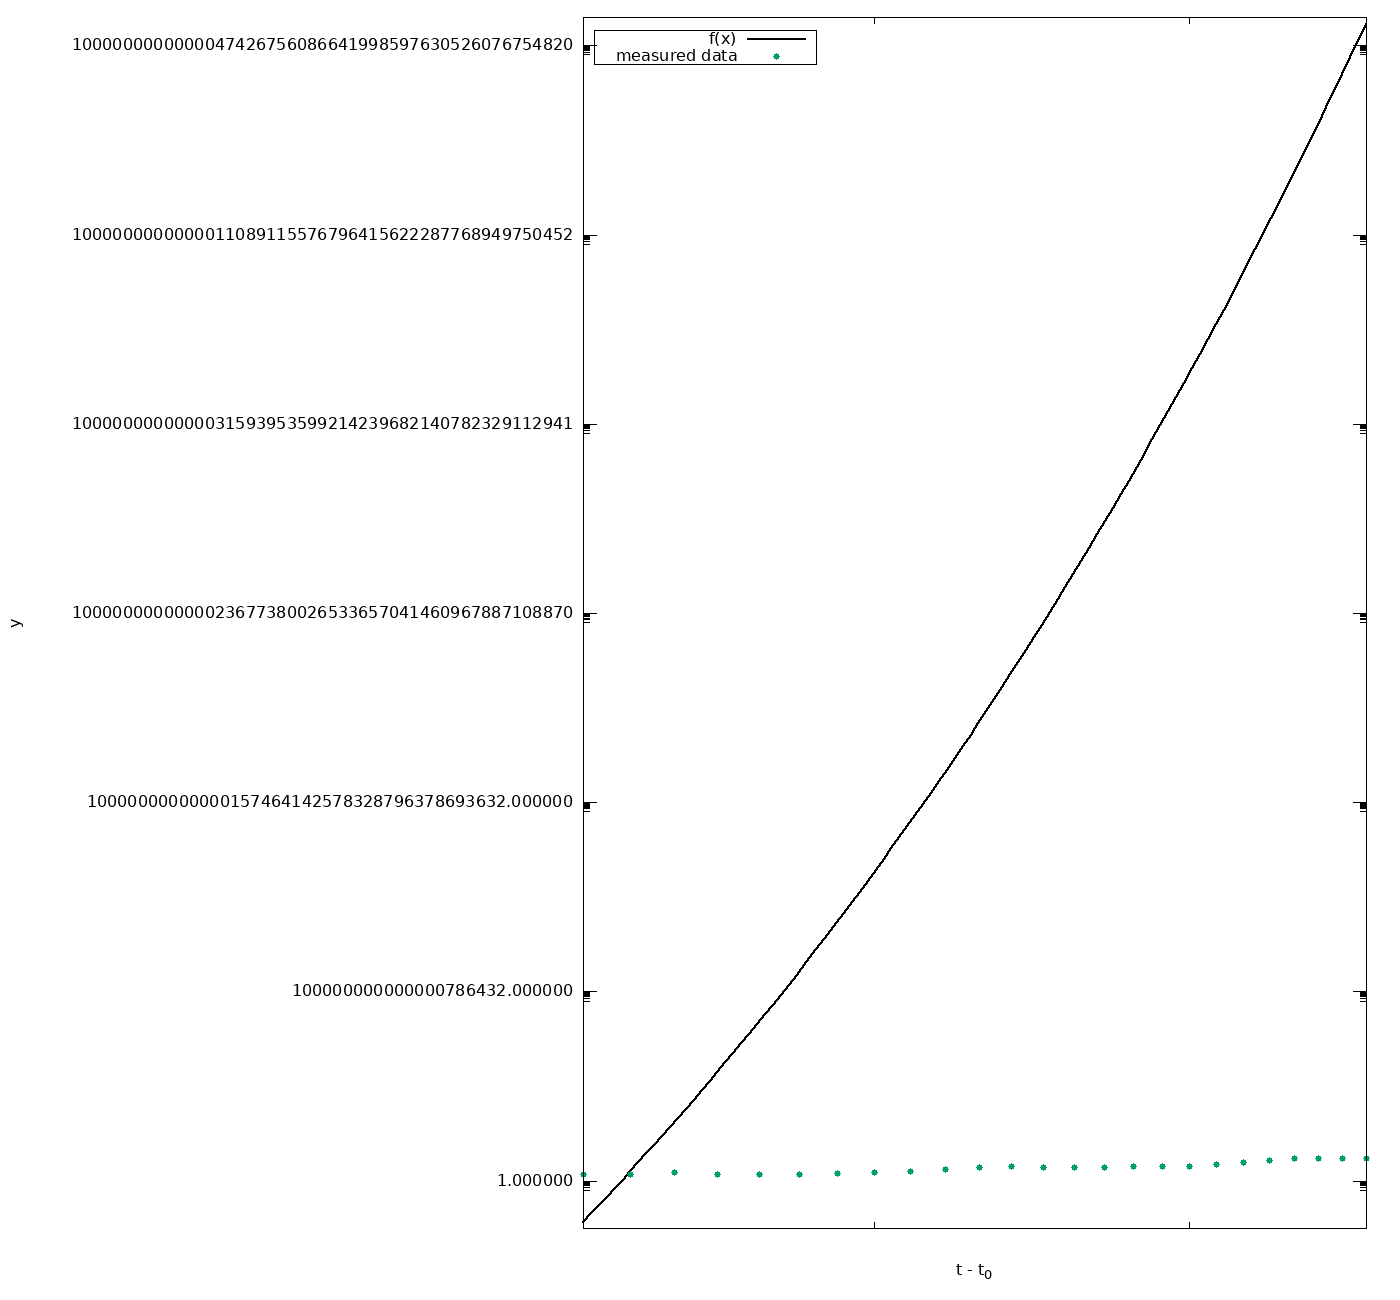
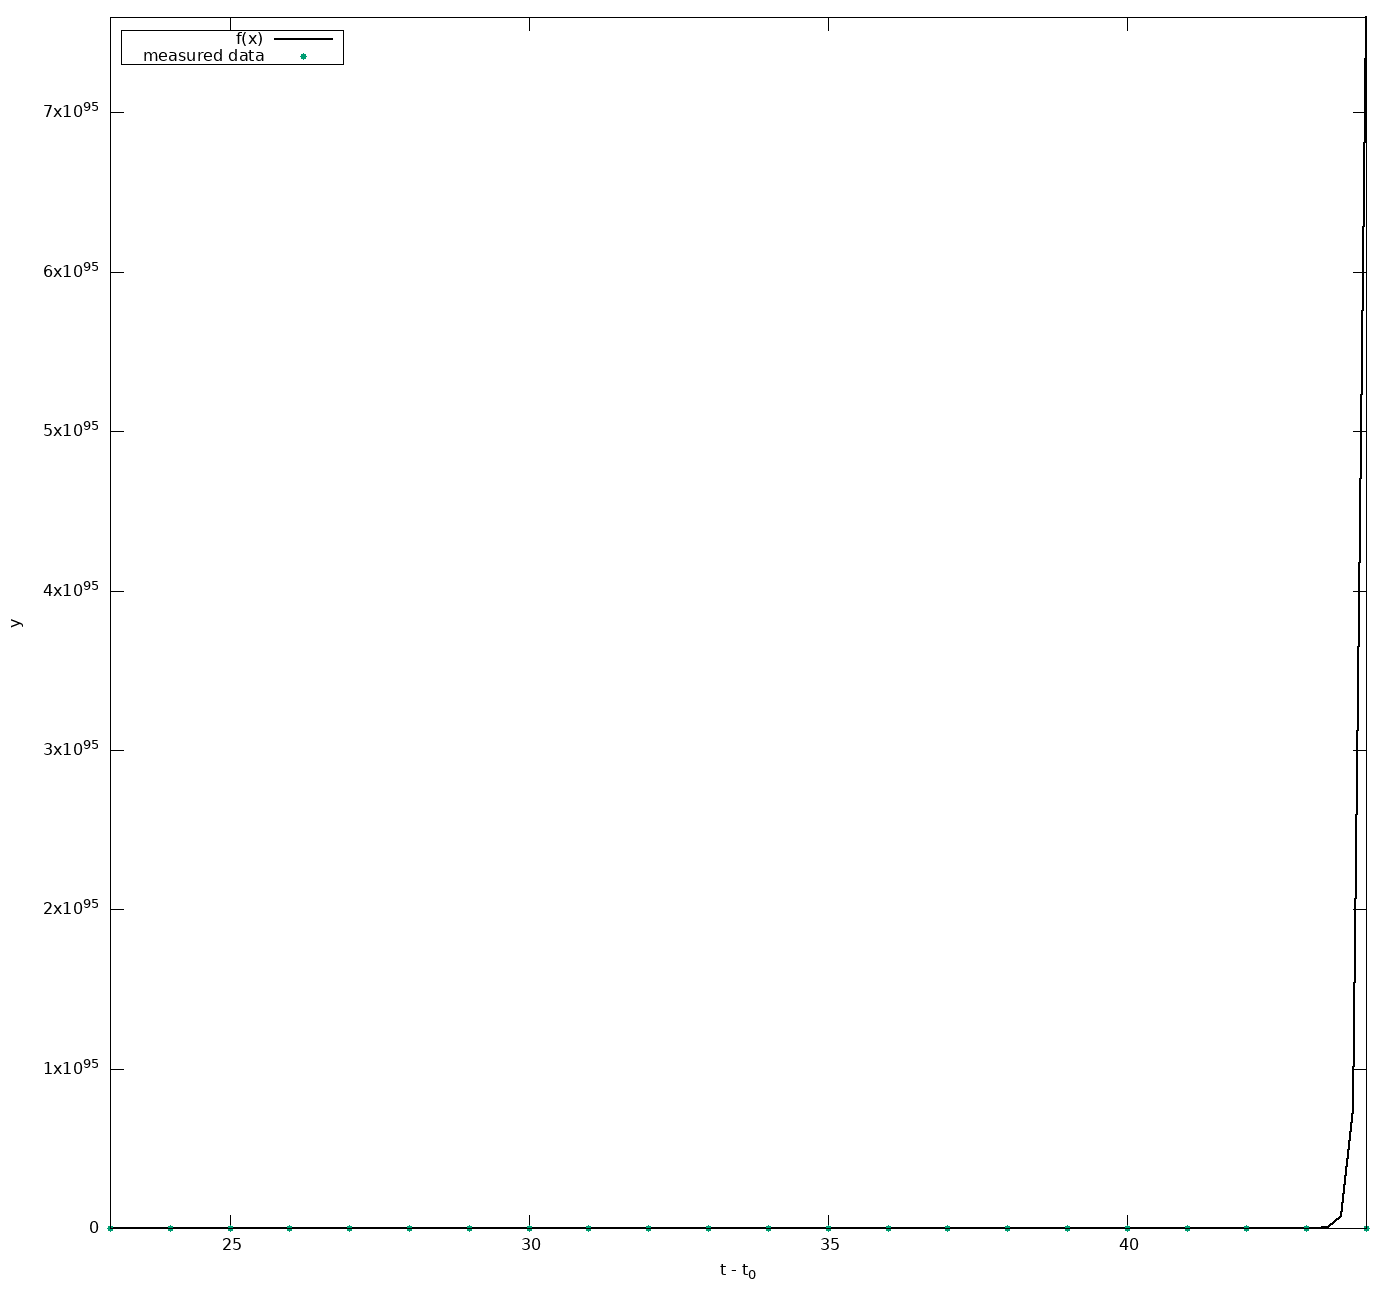
started task 3

diff --git a/modsim_ub4/integration.c b/modsim_ub4/integration.c
@@ -10,9 +10,10 @@
  * @return f(x)
  */
 
-double f1(double x) {
+double f1(double x)
+{
+  return sic(x);
 }
-
 
 /**
  * @brief Integration von f mit Untersummen.
@@ -23,7 +24,18 @@ double f1(double x) {
  * @param f zu integrierende Funktion
  */
 
-double int_unter(double a, double b, long n, double (*f)(double)) {
+double int_unter(double a, double b, long n, double (*f)(double))
+{
+  double result = 0.0;
+
+  double step = n / (b - a);
+
+  for (int i = 0; i < n - 1; i++)
+  {
+    result = result + f(a + step * i);
+  }
+
+  return result * ((b - a) / n);
 }
 
 /**
@@ -35,7 +47,18 @@ double int_unter(double a, double b, long n, double (*f)(double)) {
  * @param f zu integrierende Funktion
  */
 
-double int_mitte(double a, double b, long n, double (*f)(double)) {
+double int_mitte(double a, double b, long n, double (*f)(double))
+{
+  double result = 0.0;
+  double h = (b - a) / n;
+
+  double step = n / (b - a);
+
+  for (int i = 0; i < n - 1; i++)
+  {
+    result = result + f(0.5 * ((a + step * (i + 1)), a + step * i));
+  }
+  return result * h;
 }
 
 /**
@@ -47,7 +70,18 @@ double int_mitte(double a, double b, long n, double (*f)(double)) {
  * @param f zu integrierende Funktion
  */
 
-double int_ober(double a, double b, long n, double (*f)(double)) {
+double int_ober(double a, double b, long n, double (*f)(double))
+{
+  double result = 0.0;
+  double h = (b - a) / n;
+
+  double step = n / (b - a);
+
+  for (int i = 0; i < n - 1; i++)
+  {
+    result = result + f(a + step * (i + 1));
+  }
+  return result * h;
 }
 
 /**
@@ -59,7 +93,16 @@ double int_ober(double a, double b, long n, double (*f)(double)) {
  * @param f zu integrierende Funktion
  */
 
-double int_trapez(double a, double b, long n, double (*f)(double)) {
+double int_trapez(double a, double b, long n, double (*f)(double))
+{
+  double h = (b - a) / n;
+  double result = 0.0;
+  double step = n / (b - a);
+  for (int i = 0; i < n - 1; i++)
+  {
+    result = result + (0.5 * (f(a + step * i) + f(a + step * (i + 1))) * h);
+  }
+  return result;
 }
 
 /**
@@ -71,8 +114,9 @@ double int_trapez(double a, double b, long n, double (*f)(double)) {
  * @param f zu integrierende Funktion
  */
 
-double int_simpson(double a, double b, long n, double (*f)(double)) {
-
+double int_simpson(double a, double b, long n, double (*f)(double))
+{
+  
 }
 
 /**
@@ -84,7 +128,8 @@ double int_simpson(double a, double b, long n, double (*f)(double)) {
  * @param f zu integrierende Funktion
  */
 
-double bogenlaenge(double a, double b, long n, double (*f)(double)) {
+double bogenlaenge(double a, double b, long n, double (*f)(double))
+{
 }
 
 /**
@@ -97,15 +142,17 @@ double bogenlaenge(double a, double b, long n, double (*f)(double)) {
  * @param real     analytische Lösung
  * @param err      Fehlertoleranz
  */
- 
-void findsteps(double a, double b, double (*f)(double), double integral(double, double, long, double (*)(double)), double real, double err) {
+
+void findsteps(double a, double b, double (*f)(double), double integral(double, double, long, double (*)(double)), double real, double err)
+{
   int n = 0;
   double error;
 
   printf("%6d Stützstellen, err=%le\n", n, error);
 }
 
-int main(void) {
+int main(void)
+{
   int n;
   double real;
   double a = 0.0;
@@ -116,16 +163,15 @@ int main(void) {
   f = f1;
   real = 1.6054129768026948485767201; // b=2
 
-  //f = f2;
-  //real = exp(b)- exp(a);
+  // f = f2;
+  // real = exp(b)- exp(a);
 
   // #double unter = int_unter(a, b, n, f);
   // #printf("%6lf (% .4le)\n", unten, real - unter);
 
   double err = 1e-3;
 
-  findsteps(a, b, f, int_unter,   real, err);
-
+  findsteps(a, b, f, int_unter, real, err);
 
   return 0;
 }

diff --git a/modsim_ub3/ausgleichsproblem.c b/modsim_ub3/ausgleichsproblem.c
@@ -196,7 +196,7 @@ int main(int argc, char *argv[])
     fprintf(gp, "reset; set key left top box; set xlabel \"t - t_0\";\n"
                 "set ylabel \"y\";\n"
                 "set autoscale fix\n"
-                "set logscale xy\n"
+                //"set logscale xy\n"
                 " f(t) = %le*exp(%le*(t - 23));\n "
                 "set terminal png size 1400,1300; set output 'xyz.png';plot f(x) lt -1 lw 2, \"input.dat\" using 1:2 pt 7 title 'measured data';\n", // lt: LineType, lw: Linewidth, using 1:2: zweite spalte verwenden
             a, b);
